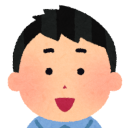
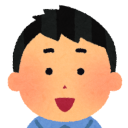
メンバー一覧の表示件数増加。アイコン微調整。

diff --git a/resources/assets/sass/style.scss b/resources/assets/sass/style.scss
@@ -273,20 +273,6 @@ textarea {
 	color: grey;
 	font-size: 12px;
 }
-/* ------ メンバー一覧画面 ------ */
-#member_list ons-list-item {
-  padding: 0px 15px;
-}
-.prof_img {
-  width: 80px;
-  height: 80px;
-}
-.highlight_btn {
-  font-size: 13px;
-  border-radius: 20px;
-  padding: 1px 20px;
-  width: 150px;
-}
 /* ------ メンバー登録画面 ------ */
 .backno_input {
   width: 80px;

diff --git a/resources/assets/js/components/Members.vue b/resources/assets/js/components/Members.vue
@@ -115,4 +115,18 @@
   };
 </script>
 
-<style></style>
+<style>
+  #member_list ons-list-item {
+    padding: 0px 15px;
+  }
+  .prof_img {
+    width: 64px;
+    height: 64px;
+  }
+  .highlight_btn {
+    font-size: 13px;
+    border-radius: 20px;
+    padding: 1px 20px;
+    width: 150px;
+  }
+</style>
